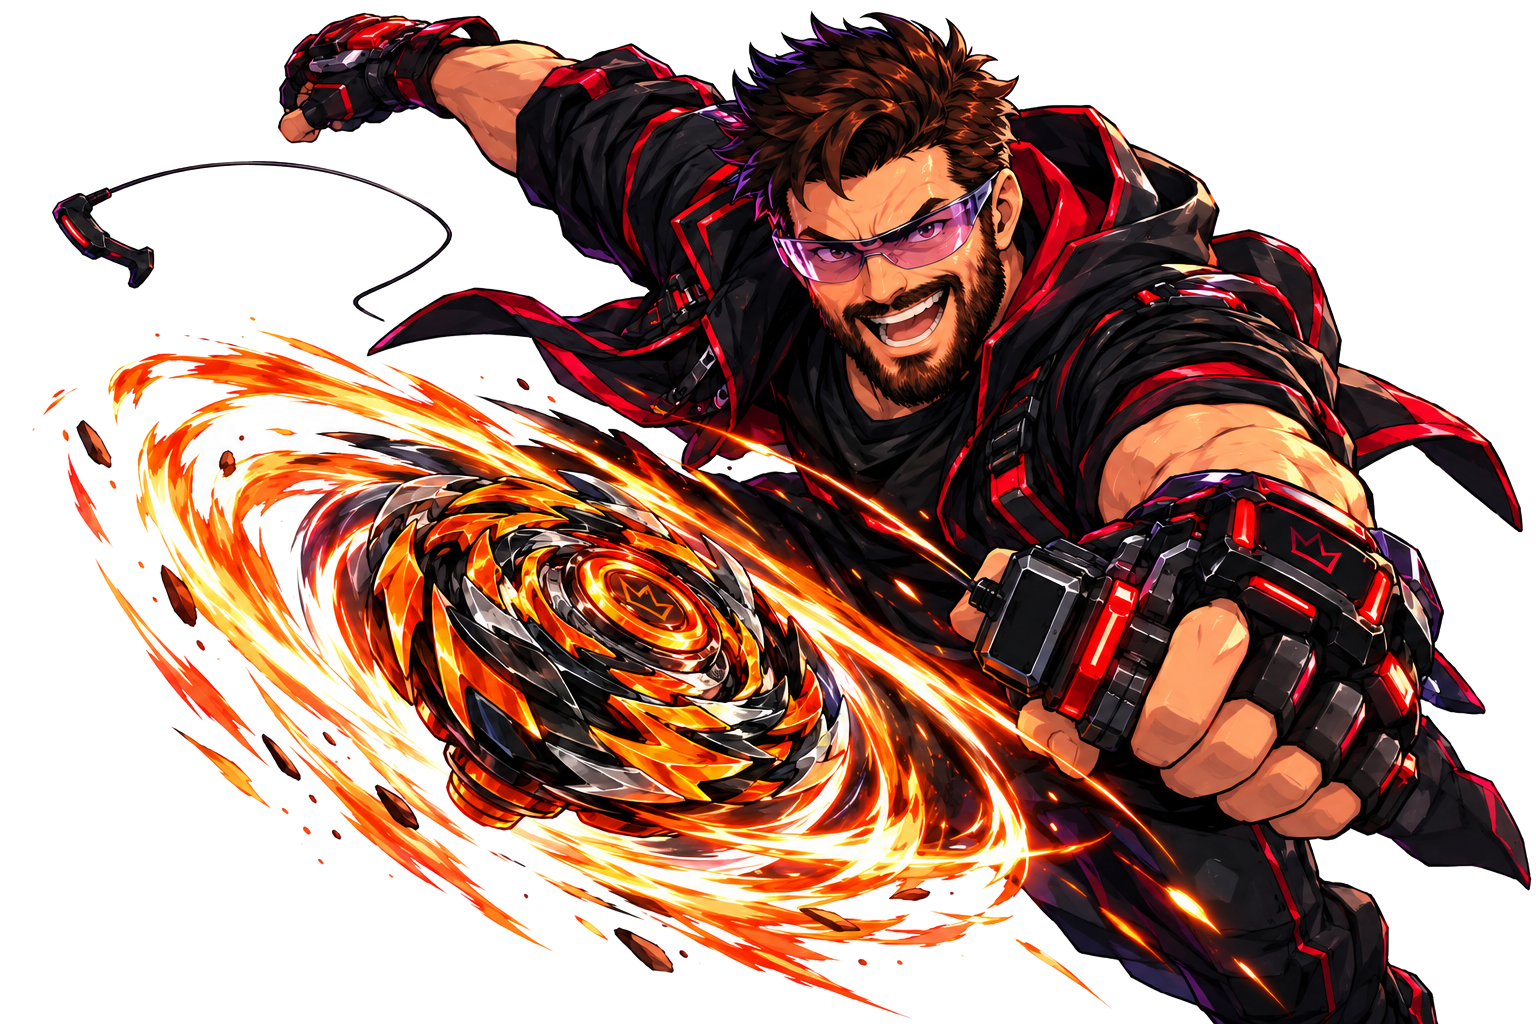
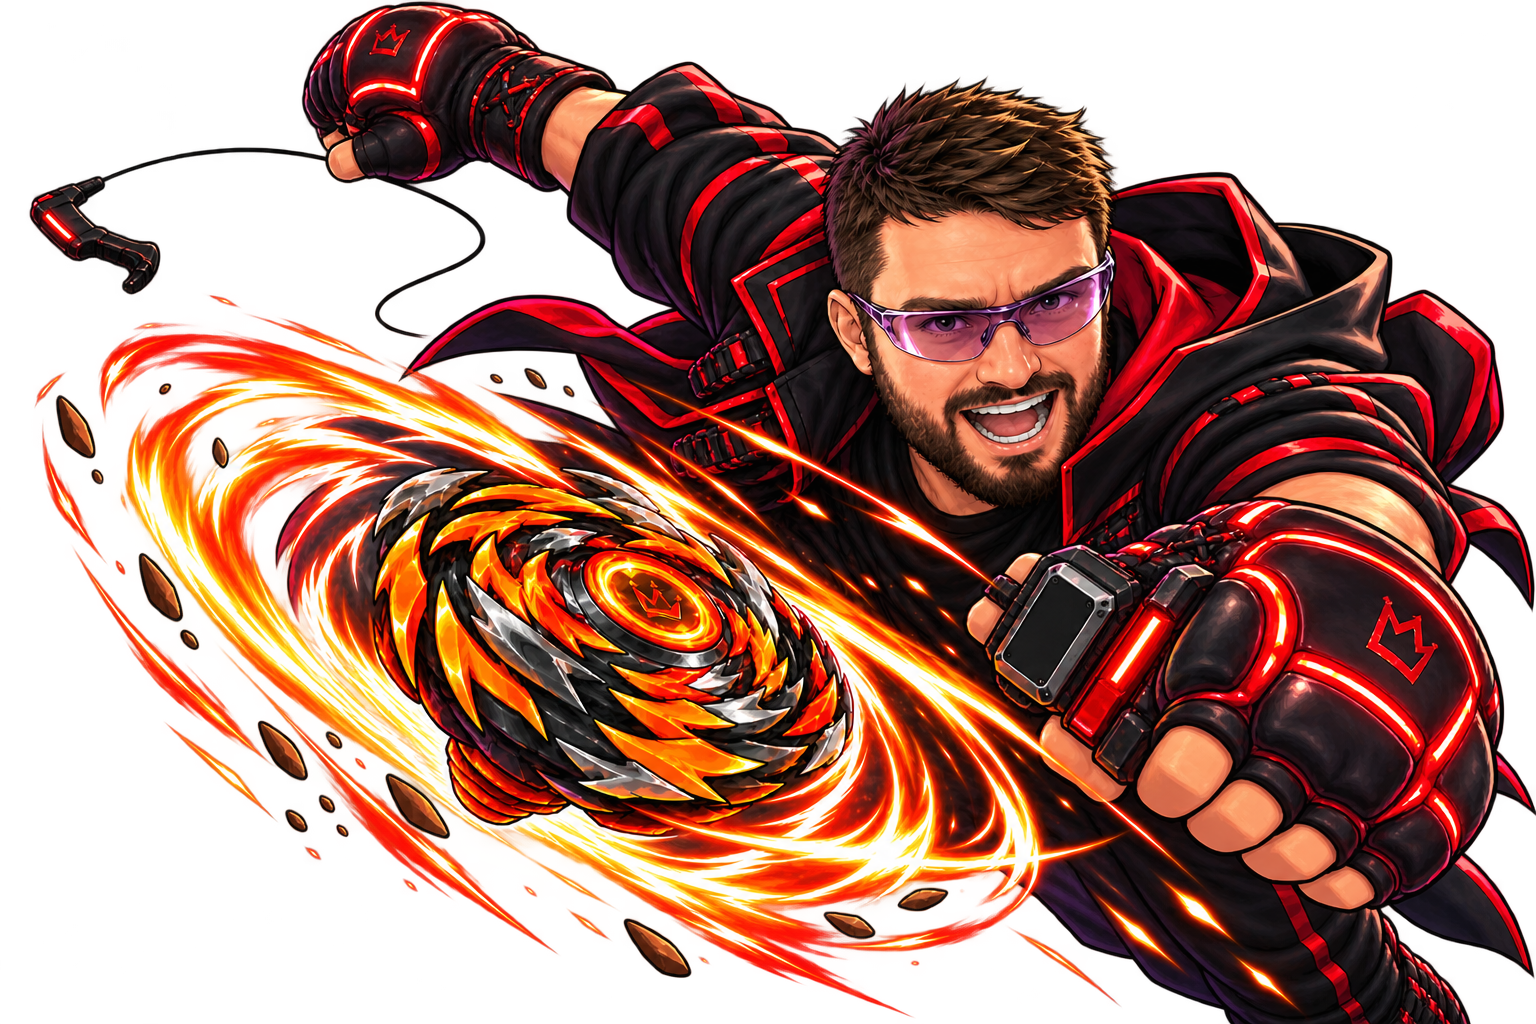
new Pugilist action image (closer likeness, padded fingerless gloves) and face point

diff --git a/fighter-art/POSE-PLAN.md b/fighter-art/POSE-PLAN.md
@@ -11,8 +11,9 @@ not everyone smiles.
 
 - **Redone and on main (6e435de):** the Breycist, the Joyzerker, the Torque Warden,
   the Stancemancer, the Cheatseeker and the Buzzsaw.
-- **Kept as they are (user's call):** the Beyby, the Fairy Dancer and the Pugilist.
-  They were created recently and are fine; their plans below are not needed.
+- **Kept as they are (user's call):** the Beyby and the Fairy Dancer. They were
+  created recently and are fine; their plans below are not needed.
+- **Likeness pass (2026-10-30):** the Pugilist (face, hair and build only).
 - **Redone on experiment/fighter-art, not merged:** the Modsmith.
 - **Still to do:** the Beanblader (added back 2026-10-30: the user says his likeness
   is off) and the Underdogger.
@@ -110,6 +111,8 @@ twelve versions of one shot.
 - **Pose:** keeps the current punch-at-camera lunge, which suits a boxer. It's the one fighter that keeps this pose.
 - **Camera:** front, wide-angle.
 - **Mood:** joyful brawler.
+- **Likeness:** from Shane's photos (`likeness/pugilist.md`), the balcony photo as master; the purple wraparound shades stay.
+- **Status:** **likeness pass approved 2026-10-30** as `approved/pugilist.png` (version H): his face, hair and build redrawn closer to Shane, fingerless cyberpunk gloves with a padded boxing-glove shell, the launcher strapped to the front glove. The pose, outfit and shades are unchanged. History in `prompts/pugilist.md`. In the app with a new face point; the victory images are not redone yet. The original stays the style reference (`approved/pugilist-original.png`).
 
 **10. The Stancemancer** (McHale): glasses, blue jumper, purple
 - **Bio:** "A master of posture and precision. His beyblade flows like water — but hits like a freight train. Don't let the glasses fool you." He "dropped into a wide stance" in the Frostbite Kid match.

diff --git a/fighter-art/prompts/pugilist.md b/fighter-art/prompts/pugilist.md
@@ -4,7 +4,11 @@ Likeness pass, 2026-10-30. The user asked for a better likeness of Shane. Becaus
 Pugilist is the style reference for the whole set, this is an **edit of the current
 image**, changing only his face, hair and build (user's call). The pose, outfit,
 purple wraparound shades, Beyblade and rendering stay. The original is kept as
-`approved/pugilist-original.png`.
+`approved/pugilist-original.png` and stays the style reference.
+
+**Approved: `approved/pugilist.png`** (a copy of `candidates/pugilist-H.png`).
+1536×1024, transparent, face found at 0.93. In the app with a new face point; no
+mirror flag (same layout as before).
 
 ## Attachments (new chat)
 

diff --git a/fighter-art/STYLE-GUIDE.md b/fighter-art/STYLE-GUIDE.md
@@ -149,6 +149,11 @@ need a new chat, because long edit chains drift.
    detail is visible (`reference-photos/breycist/upload/1b-style-pugilist-face.png`).
 4. Two photos of the person, cropped to them alone, "for likeness only".
 
+**The style reference is the ORIGINAL Pugilist** (`approved/pugilist-original.png`,
+the same image as every `1-style-pugilist.png` upload copy). The Pugilist's own art
+was redone for likeness on 2026-10-30; keep using the original as the reference, so
+the set stays matched to the look it was drawn against.
+
 ## 5. Victory and royale-victory images
 
 These are shared templates: the same arena, the same belt or trophy, the same
